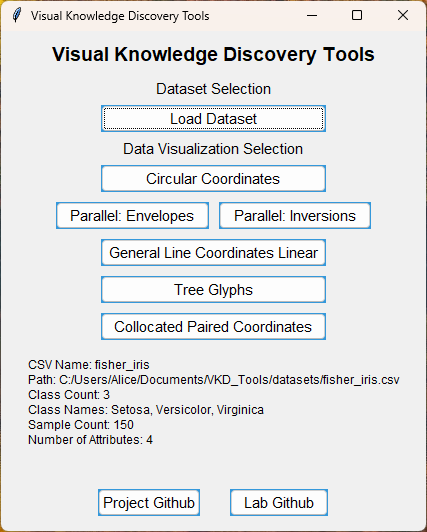
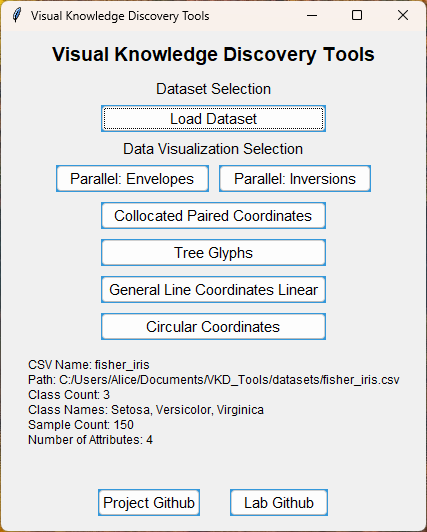
GLC-L plot grid, zorder, tree glyph alpha

Changed region(s): [[0.1218, 0.3008, 0.8829, 0.5714], [0.2436, 0.6015, 0.7307, 0.6316]]

diff --git a/glc_line_plotter.py b/glc_line_plotter.py
@@ -105,7 +105,8 @@ def plot_glyphs(df, dataset_name, coefficients=None):
             max_x_value = max(max_x_value, x_i)
     
     plt.subplot(2, 1, 1)
-    
+    plt.grid(color='lightgray', linestyle='--', linewidth=0.5)
+
     first_class = unique_labels[0]
     for index, row in df[df[label_column] == first_class].iterrows():
         x_prev, y_prev = 0, 0
@@ -114,11 +115,11 @@ def plot_glyphs(df, dataset_name, coefficients=None):
             theta_i = angles[i]
             x_i = x_prev + a_i * np.cos(theta_i)
             y_i = y_prev + a_i * np.sin(theta_i)
-            plt.plot([x_prev, x_i], [y_prev, y_i], color=label_to_color[row[label_column]], alpha=0.1, zorder=1)
+            plt.plot([x_prev, x_i], [y_prev, y_i], color=label_to_color[row[label_column]], alpha=0.1, zorder=2)
             x_prev, y_prev = x_i, y_i
         plt.scatter(x_i, 0, marker='|', color=label_to_color[row[label_column]], s=100)
-        plt.scatter(x_i, y_i, marker='s', color='white', s=12, zorder=2)
-        plt.scatter(x_i, y_i, marker='s', color='black', s=10, zorder=2)
+        plt.scatter(x_i, y_i, marker='s', color='white', s=12, zorder=3)
+        plt.scatter(x_i, y_i, marker='s', color='black', s=10, zorder=3)
     # Find the midpoint for the LDA separation line and plot it
     midpoint_x = find_lda_separation_line(df, lda_model, feature_columns, label_column, angles)
     plot_lda_separation_line(midpoint_x)
@@ -126,6 +127,8 @@ def plot_glyphs(df, dataset_name, coefficients=None):
     plt.title(f'GLC-L Graph of {dataset_name} - Class: {first_class}  |  LDA Accuracy: {lda_accuracy:.2f}')
     
     plt.subplot(2, 1, 2)
+    plt.grid(color='lightgray', linestyle='--', linewidth=0.5)
+
     for other_class in unique_labels[1:]:
         for index, row in df[df[label_column] == other_class].iterrows():
             x_prev, y_prev = 0, 0
@@ -134,15 +137,17 @@ def plot_glyphs(df, dataset_name, coefficients=None):
                 theta_i = angles[i]
                 x_i = x_prev + a_i * np.cos(theta_i)
                 y_i = y_prev + a_i * np.sin(theta_i)
-                plt.plot([x_prev, x_i], [y_prev, y_i], color=label_to_color[row[label_column]], alpha=0.1, zorder=1)
+                plt.plot([x_prev, x_i], [y_prev, y_i], color=label_to_color[row[label_column]], alpha=0.1, zorder=2)
                 x_prev, y_prev = x_i, y_i
             plt.scatter(x_i, 0, marker='|', color=label_to_color[row[label_column]], s=100)
-            plt.scatter(x_i, y_i, marker='s', color='white', s=12, zorder=2)
-            plt.scatter(x_i, y_i, marker='s', color='black', s=10, zorder=2)
+            plt.scatter(x_i, y_i, marker='s', color='white', s=12, zorder=3)
+            plt.scatter(x_i, y_i, marker='s', color='black', s=10, zorder=3)
     # Find the midpoint for the LDA separation line and plot it
     midpoint_x = find_lda_separation_line(df, lda_model, feature_columns, label_column, angles)
     plot_lda_separation_line(midpoint_x)
+
     plt.xlim(0, max_x_value + 0.1)
+    
     plt.gca().invert_yaxis()
     second_class = unique_labels[1]
     

diff --git a/menu.py b/menu.py
@@ -47,10 +47,6 @@ def main():
     program_label = ttk.Label(app, text="Data Visualization Selection", font=("Arial", 11))
     program_label.pack(pady=1)
 
-    global circular_button
-    circular_button = ttk.Button(app, text="Circular Coordinates", command=launch_circular_plotter, state=tk.DISABLED)
-    circular_button.pack(pady=5, fill='x', padx=100)
-
     # Create a frame for the parallel coordinates buttons
     parallel_coords_frame = ttk.Frame(app)
     parallel_coords_frame.pack(pady=5, padx=50, fill='x')
@@ -64,17 +60,21 @@ def main():
     plotly_demo_button = ttk.Button(parallel_coords_frame, text="Parallel: Inversions", command=launch_plotly_demo, state=tk.DISABLED)
     plotly_demo_button.pack(side="right", padx=5, expand=True, fill='x')
 
-    global glyph_2d_button
-    glyph_2d_button = ttk.Button(app, text="General Line Coordinates Linear", command=launch_glc_line_plotter, state=tk.DISABLED)
-    glyph_2d_button.pack(pady=5, fill='x', padx=100)
+    global collocated_button
+    collocated_button = ttk.Button(app, text="Collocated Paired Coordinates", command=launch_collocated_plotter, state=tk.DISABLED)
+    collocated_button.pack(pady=5, fill='x', padx=100)    
 
     global tree_glyph_button
     tree_glyph_button = ttk.Button(app, text="Tree Glyphs", command=launch_tree_glyph_plotter, state=tk.DISABLED)
     tree_glyph_button.pack(pady=5, fill='x', padx=100)
     
-    global collocated_button
-    collocated_button = ttk.Button(app, text="Collocated Paired Coordinates", command=launch_collocated_plotter, state=tk.DISABLED)
-    collocated_button.pack(pady=5, fill='x', padx=100)
+    global glc_button
+    glc_button = ttk.Button(app, text="General Line Coordinates Linear", command=launch_glc_line_plotter, state=tk.DISABLED)
+    glc_button.pack(pady=5, fill='x', padx=100)
+    
+    global circular_button
+    circular_button = ttk.Button(app, text="Circular Coordinates", command=launch_circular_plotter, state=tk.DISABLED)
+    circular_button.pack(pady=5, fill='x', padx=100)
 
     # Create a frame for the GitHub buttons
     github_buttons_frame = ttk.Frame(app)
@@ -113,11 +113,11 @@ def load_and_process_csv():
         "labels": labels
     }
     
-    global plotly_demo_button, circular_button, envelope_button, glyph_2d_button, tree_glyph_button, collocated_button
+    global plotly_demo_button, circular_button, envelope_button, glc_button, tree_glyph_button, collocated_button
     plotly_demo_button.config(state=tk.NORMAL)
     envelope_button.config(state=tk.NORMAL)
     circular_button.config(state=tk.NORMAL)
-    glyph_2d_button.config(state=tk.NORMAL)
+    glc_button.config(state=tk.NORMAL)
     tree_glyph_button.config(state=tk.NORMAL)
     collocated_button.config(state=tk.NORMAL)
     

diff --git a/tree_glyph_plotter.py b/tree_glyph_plotter.py
@@ -112,13 +112,13 @@ def draw_tree_colored_stretched(ax, x, y, z, trunk_length, branches, color, stre
     x *= stretch_factor
     y *= stretch_factor
     z *= stretch_factor
-    ax.plot([x, x], [y, y], [z, z + trunk_length], c=color, alpha=0.1)
+    ax.plot([x, x], [y, y], [z, z + trunk_length], c=color, alpha=0.3)
     z_current = z + trunk_length
     for length, angle in branches:
         angle_scaled = angle * 45
         dx = length * math.sin(math.radians(angle_scaled))
         dy = length * math.cos(math.radians(angle_scaled))
-        ax.plot([x, x + dx], [y, y + dy], [z_current, z_current], c=color, alpha=0.1)
+        ax.plot([x, x + dx], [y, y + dy], [z_current, z_current], c=color, alpha=0.3)
 
 def plot_trees(ax, data, labels, stretch_factor):
     unique_labels = labels.unique()
